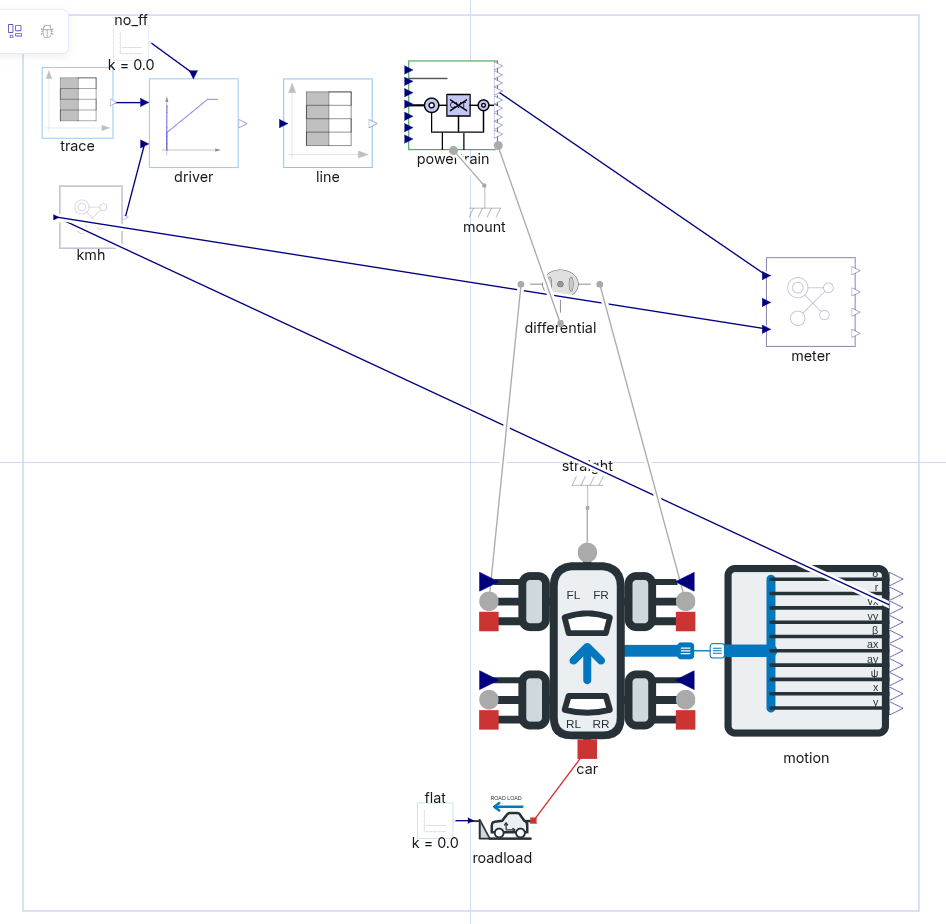
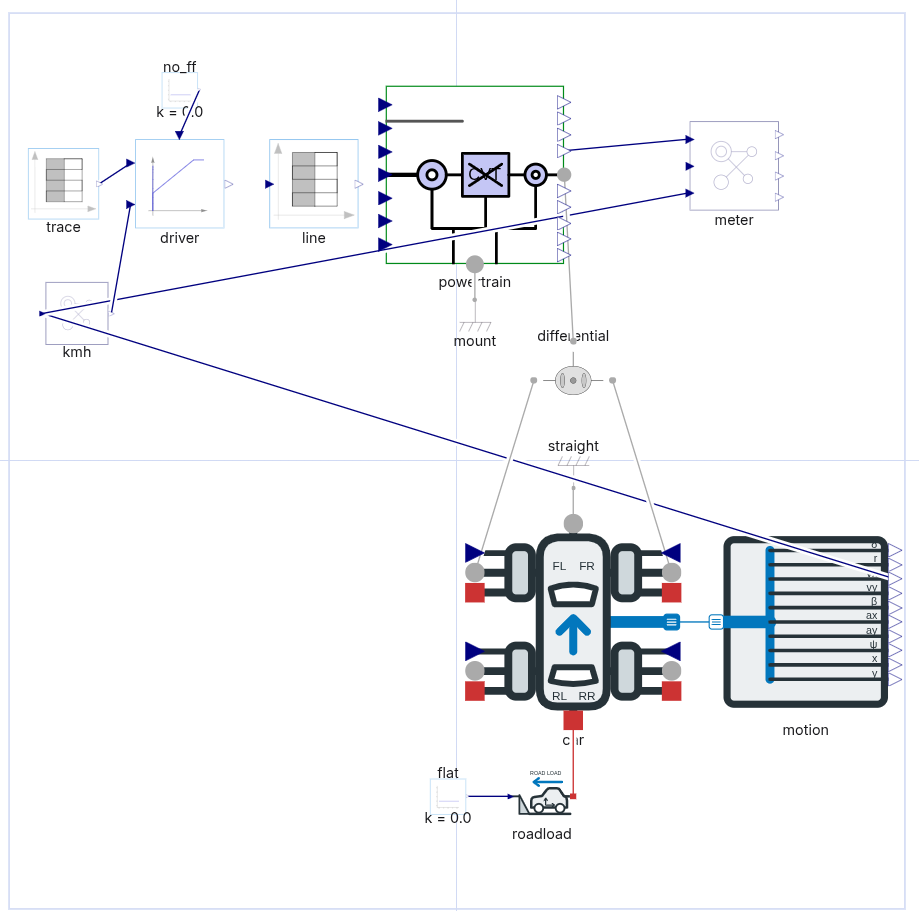
docs(lecture05): show the Studio diagrams in the hands-on guide
Steps 1a and 3 had no diagram to compare against, and the guide still deferred a Studio check of
the corrected P2Powertrain diagram. With the layouts in place, the guide now shows P2Powertrain
and the P2WLTC fixture in step 1a, a retaken operating-line fixture in step 2 and the
P2HybridWLTC bench in step 3, each a clean Studio capture at its step.

Studio leaves a connect inside an if block undrawn, so the shaft from K0 through the variator
is missing from the P2Powertrain picture; one sentence under it says so, so that students do not
look for a wire they never drew. The two deferred-check caveats are removed.

diff --git a/slides/site/lecture/lecture-05/index.md b/slides/site/lecture/lecture-05/index.md
@@ -6,7 +6,7 @@ title: Lecture 5 — compose a P2 hybrid powertrain
 
 # Lecture 5: compose a P2 hybrid powertrain
 
-Rehearsed in Dyad Studio 3.5.1. Code-view work is called out below; the revised powertrain diagram will be checked after these fixes land.
+Rehearsed in Dyad Studio 3.5.1. Code-view work is called out below.
 
 **What you build.** A transmission-input P2 hybrid from existing library parts: mapped engine → disconnect clutch K0 → machine shaft → controlled variator → differential → front wheels. Step 2 adds the operating-line lookup and speed-commanded variator. Steps 3 and 4 add the energy manager, clutch starts and charge-sustaining comparison.
 
@@ -109,6 +109,10 @@ Add structural Boolean `engine_stopped = false`, Real `position_start = 0.0`, an
 Trace engine → K0 → shared machine/variator input → variator → differential → front wheels. All powertrain supports reach `mount`; there is one final drive and no launch clutch. The four fixed-mode commands and nine outputs remain accessible on `powertrain`. This is a structural checkpoint, not evidence that the engine-only car can launch.
 
 :::
+
+[![Studio diagram of HandsOn05.P2Powertrain: input ports on the left, engine, K0, hybrid drive and variator left to right with the speed-commanded variator below, output ports and the spline on the right, the housing support at the bottom](/lecture/lecture-05/img/step01-p2-powertrain.png)](/lecture/lecture-05/img/step01-p2-powertrain.png)
+
+The reference already carries the step-2 and step-3 ports (`N_ref`, `engine_on`, `engine_torque_ref`). Studio does not draw a `connect` inside an `if` block, so the shaft from K0 through the variator and the `tau_ref` path show only in code.
 
 #### Code view required — your powertrain and fixture
 
@@ -320,6 +324,8 @@ analysis P2ElectricWLTCTransient
   model = P2ElectricWLTC()
 end
 ```
+
+[![Studio diagram of the P2WLTC fixture: drive cycle, PI driver and torque split feeding the P2 powertrain, which turns the planar car's front wheels through the differential; road load below the car, vehicle-speed feedback to the driver and the fuel meter on the right](/lecture/lecture-05/img/step01-p2wltc-fixture.png)](/lecture/lecture-05/img/step01-p2wltc-fixture.png)
 
 #### Fell behind?
 
@@ -692,7 +698,7 @@ sampled engine-speed minimum is 815.95 rpm on `0:0.01:1800`, not a continuous-ti
 
 :::
 
-[![Studio diagram of the operating-line WLTC fixture with driver, powertrain, differential, planar car and road load](/lecture/lecture-05/img/step02-operating-line-diagram.png)](/lecture/lecture-05/img/step02-operating-line-diagram.png)
+[![Studio diagram of the operating-line WLTC fixture: driver, operating-line table and P2 powertrain, which turns the planar car through the differential; road load, speed feedback and fuel meter](/lecture/lecture-05/img/step02-operating-line-diagram.png)](/lecture/lecture-05/img/step02-operating-line-diagram.png)
 
 #### Fell behind?
 
@@ -924,6 +930,8 @@ the efficient-speed target. Charging raises engine load and generates the surplu
 adds machine torque above the 30 kW line cap. During deceleration the existing regen blend
 uses the machine first and sends the remainder to friction brakes.
 
+[![Studio diagram of P2HybridWLTC: driver demand into the energy manager, whose outputs drive the torque-to-pedal map and the powertrain; engine speed, available torque and SoC loop back under the manager; operating-line tables above; planar car, road load and fuel meter as in step 2](/lecture/lecture-05/img/step03-hybrid-diagram.png)](/lecture/lecture-05/img/step03-hybrid-diagram.png)
+
 ### Code view required — energy accounting and analysis
 
 Add these declarations before `relations`:
@@ -1005,7 +1013,7 @@ The inverse map needs no PI trim; steady analytic torque round trips are within 
 
 ## Limits of this reference
 
-The corrected `P2Powertrain` diagram still needs a post-merge Studio check. The torque inverse assumes
+The torque inverse assumes
 unchanged default engine and air-path calibration. Start compensation remains subject to
 the machine's current and power limits; it cannot guarantee full driver demand at every start.
 The [homework](./homework) takes the same car to a series hybrid.
